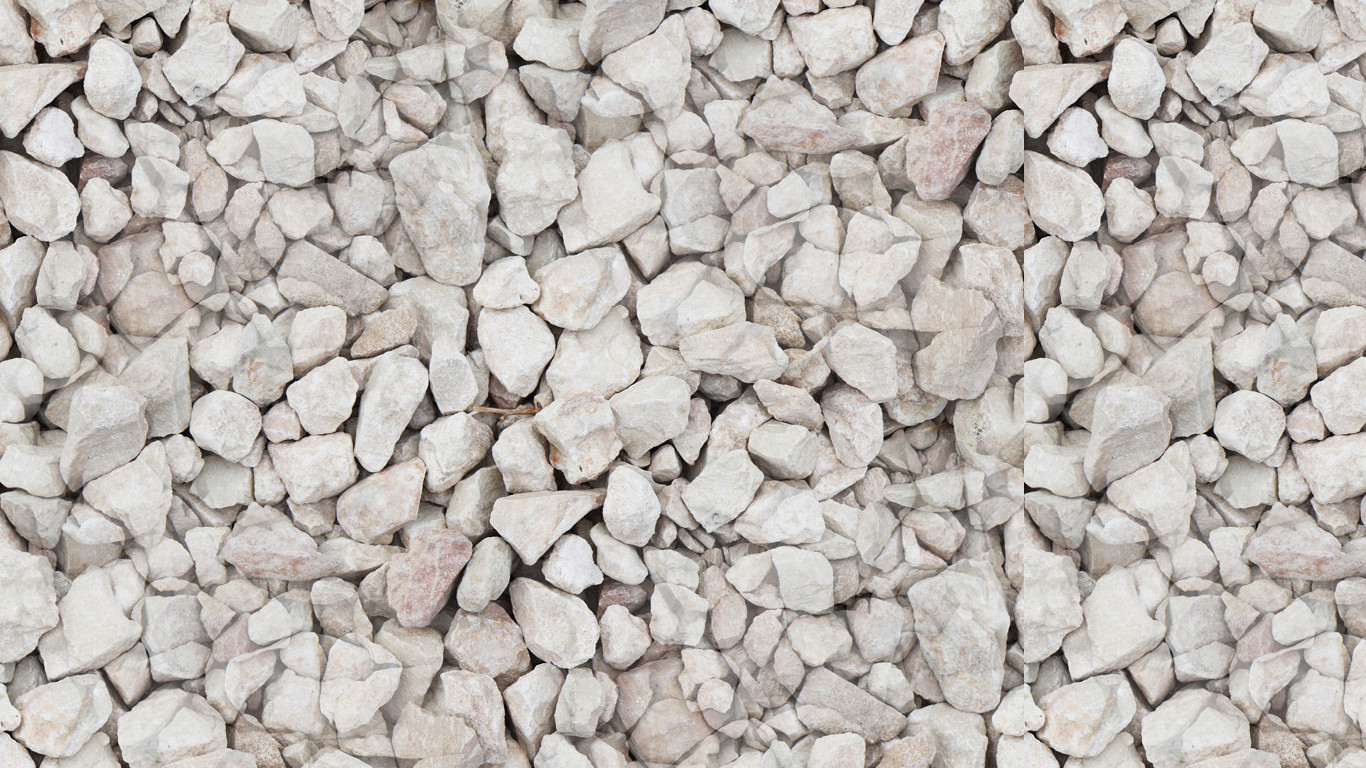
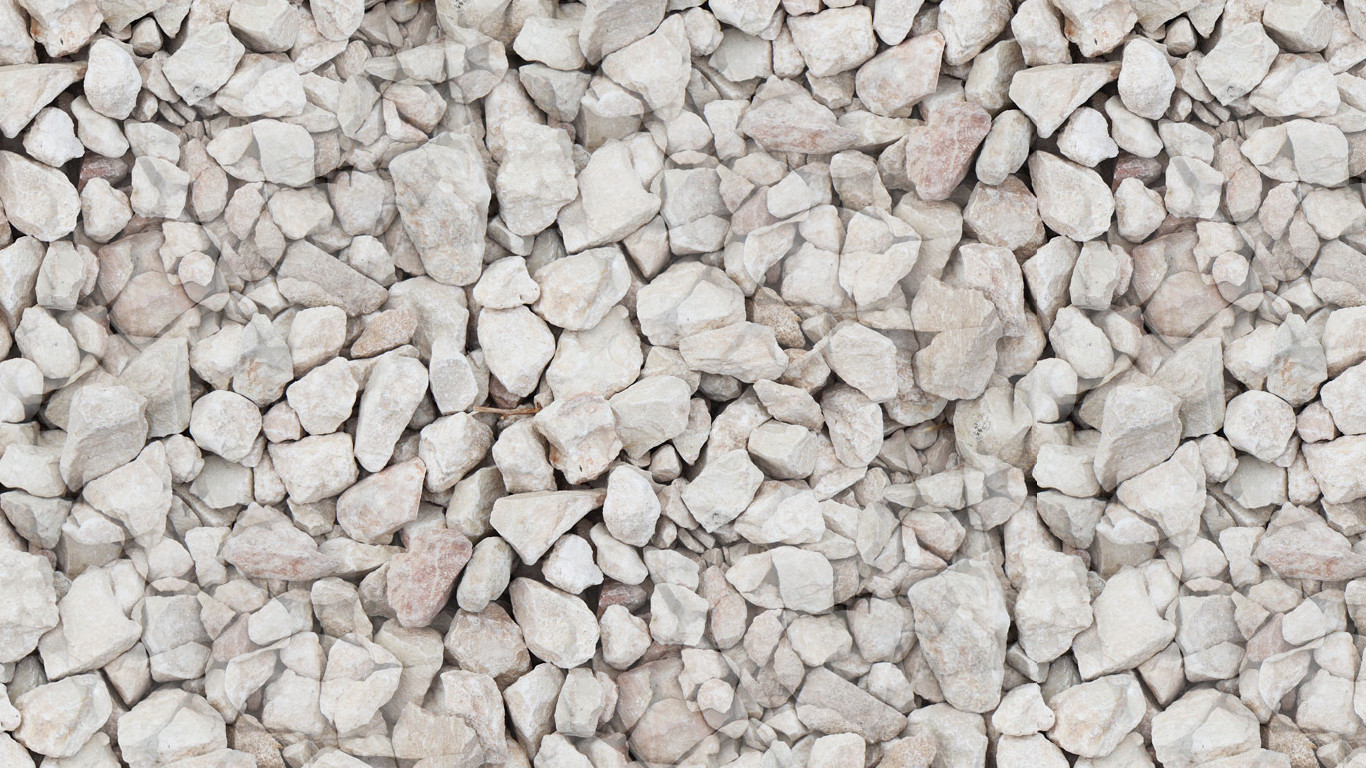
On branch master Your branch is up-to-date with 'origin/master'. Changes to be committed:   (use "git reset HEAD <file>..." to unstage)
copied:     CP_TO_DATADIRS/wallpapers/Hedera/contents/images/tile.jpg -> CP_TO_DATADIRS/slim/themes/Hedera/background.jpg
	new file:   CP_TO_DATADIRS/slim/themes/Hedera/panel.png
	new file:   CP_TO_DATADIRS/slim/themes/Hedera/slim.theme
	deleted:    CP_TO_DATADIRS/wallpapers/Hedera/contents/images/1080x1920.jpg
	modified:   CP_TO_DATADIRS/wallpapers/Hedera/contents/images/1280x1024.jpg
	modified:   CP_TO_DATADIRS/wallpapers/Hedera/contents/images/1280x800.jpg
	modified:   CP_TO_DATADIRS/wallpapers/Hedera/contents/images/1366x768.jpg
	modified:   CP_TO_DATADIRS/wallpapers/Hedera/contents/images/1440x900.jpg
	modified:   CP_TO_DATADIRS/wallpapers/Hedera/contents/images/1600x900.jpg
	modified:   CP_TO_DATADIRS/wallpapers/Hedera/contents/images/1680x1050.jpg
	modified:   CP_TO_DATADIRS/wallpapers/Hedera/contents/images/1920x1080.jpg
	modified:   CP_TO_DATADIRS/wallpapers/Hedera/contents/images/tile.jpg
	modified:   README.md

Changed region(s): [[0.7379, 0.0, 1.0, 1.0]]

diff --git a/README.md b/README.md
@@ -5,6 +5,7 @@
 * Konsole ColorScheme
 * KDE ColorScheme
 * KSplash theme
+* SLiM theme
 * GTK3.20 
 	* made for use with [GTK3-nocsd](https://github.com/PCMan/gtk3-nocsd)
 	* needs disabled overlay schrollbars (export GTK_OVERLAY_SCROLLING=0)
@@ -16,6 +17,8 @@
 just clone or download(right side green button) the theme and move the wanted files inside the CP_TO_DATADIRS folder to your DATADIR(usually /usr/share or /usr/local/share) or XDG_DATADIR (usually (~/.local/share).
 
 Note: there is no easier way todo this since every KDE application uses different theme paths!
+
+''Some themes like SLIM need to be placed into the sysprefix''
 
 #### Suggested Breeze KStyle settings
 
